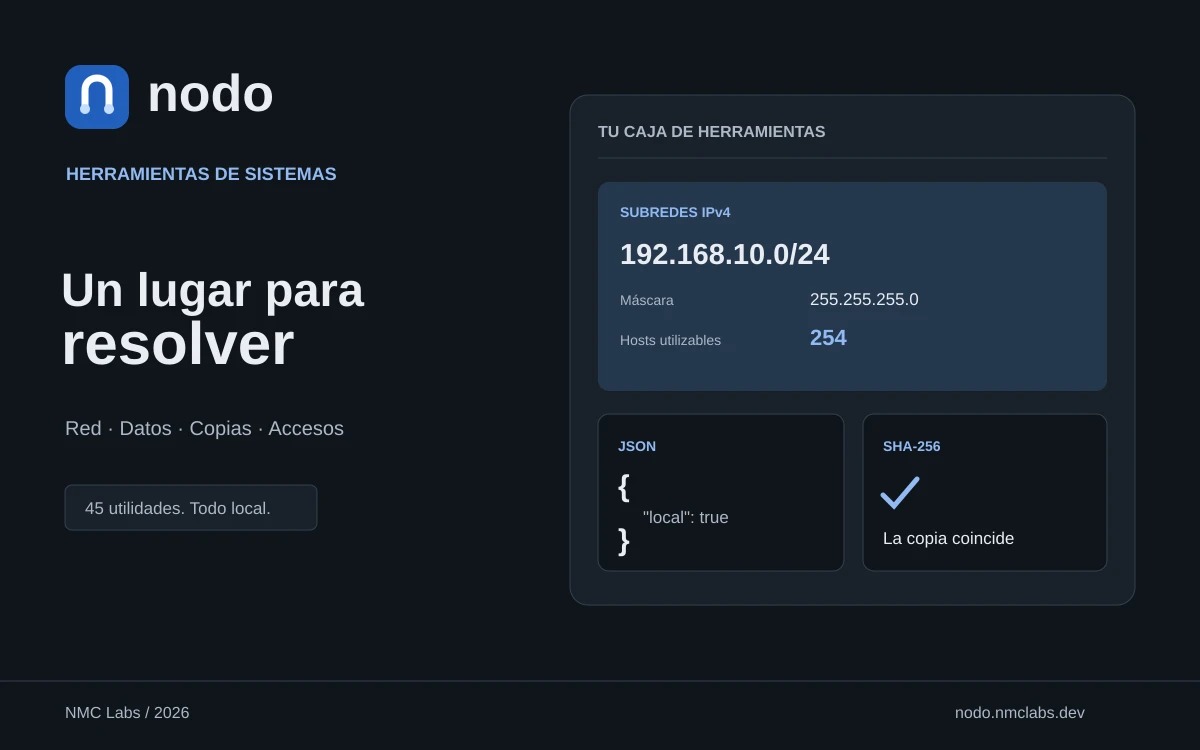
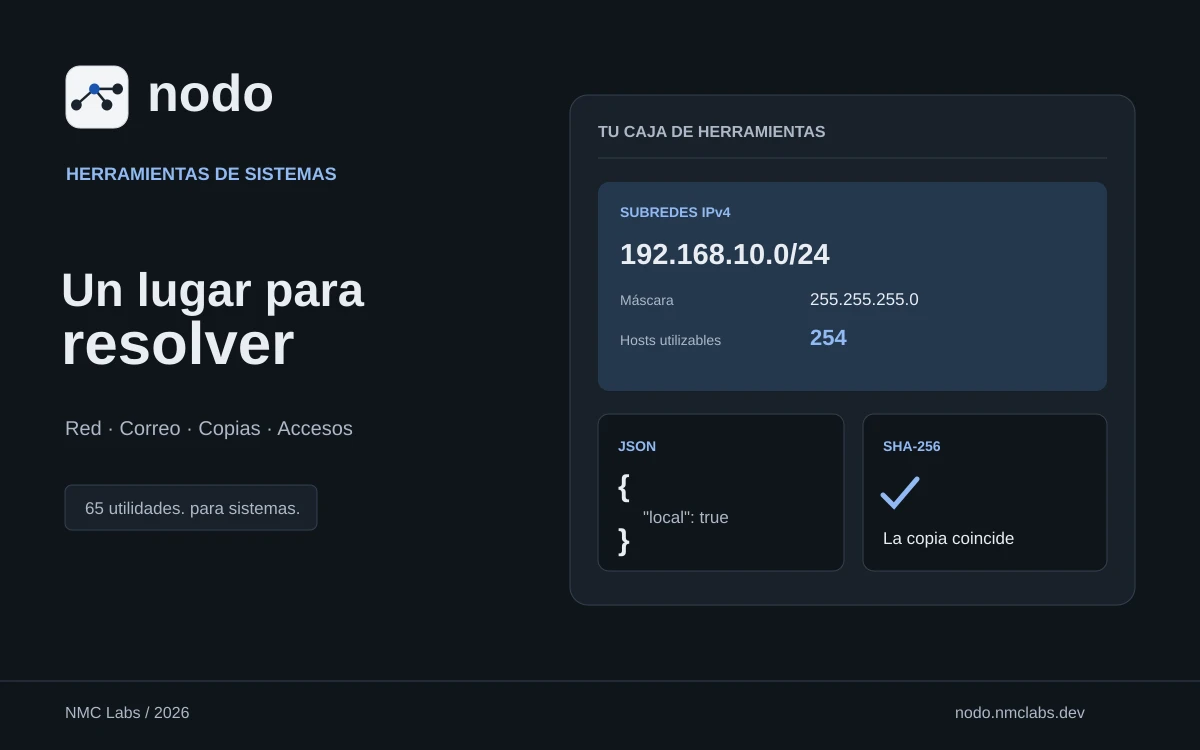
Refresh nodo identity and present DNS and email tools

Changed region(s): [[0.0308, 0.0613, 0.1233, 0.184], [0.0925, 0.552, 0.3083, 0.5827], [0.1542, 0.6747, 0.2467, 0.7053]]

diff --git a/index.html b/index.html
@@ -51,7 +51,7 @@
       </article>
       <article class="featured amano-featured" aria-labelledby="amano-titulo"><div class="featured-content"><p class="eyebrow"><time datetime="2026">2026</time> · INVENTARIO DE EMPRESA</p><h3 id="amano-titulo">Cada equipo,<br>en su sitio</h3><p>amano conecta el material de una empresa con las personas, las ubicaciones y su historial. Registra equipos con foto, personaliza la identidad de tu empresa y prueba asignaciones, préstamos, devoluciones, mantenimiento y etiquetas QR.</p><ul class="tags" aria-label="Funciones de amano"><li>Inventario</li><li>Custodia y préstamos</li><li>QR y mantenimiento</li></ul><a class="button project-cta" href="https://amano.nmclabs.dev/" target="_blank" rel="noopener noreferrer">Descubrir amano <span aria-hidden="true"><svg class="icon-arrow" viewBox="0 0 24 24" fill="none"><path d="m6 18 12-12M6 6h12v12" stroke="currentColor" stroke-width="1.7" stroke-linecap="round" stroke-linejoin="round"/></svg></span></a></div><a class="amano-art brand-art" href="https://amano.nmclabs.dev/" target="_blank" rel="noopener noreferrer" aria-label="Descubrir amano en una pestaña nueva"><picture class="project-cover"><source media="(prefers-color-scheme: dark)" srcset="proyectos/amano-brand-dark.webp?v=themes1"><img src="proyectos/amano-brand-light.webp?v=themes1" width="1200" height="750" alt="amano: equipo identificado, portátil y persona responsable" loading="lazy"></picture></a><details class="project-origin"><summary><span>La idea detrás del proyecto</span><span class="origin-toggle" aria-hidden="true">+</span></summary><div class="origin-content" aria-label="La idea de amano"><div><span class="origin-label">LA IDEA</span><p>Saber qué material tiene una empresa, dónde está y quién lo utiliza sin depender de varias hojas y mensajes.</p></div><div><span class="origin-label">EL RETO</span><p>Conectar cada equipo con su persona responsable, las entregas, las devoluciones y los cuidados pendientes.</p></div><div><span class="origin-label">LA DECISIÓN</span><p>Dar identidad propia a cada unidad y permitir probar el recorrido completo, desde el alta hasta una etiqueta QR.</p></div></div></details></article>
       <article class="featured apunto-featured" aria-labelledby="apunto-titulo"><div class="featured-content"><p class="eyebrow"><time datetime="2026">2026</time> · GESTIÓN DE TALLERES</p><h3 id="apunto-titulo">Cada reparación,<br>bajo control</h3><p>apunto conecta citas, recepción y reparación para talleres de coches y motos. El cliente revisa el presupuesto original y sus adicionales; el negocio planifica profesionales y elevadores, gestiona piezas y conserva el historial. Incluye cobro presencial, resguardo y recordatorios de mantenimiento en una demo local.</p><ul class="tags" aria-label="Funciones de apunto"><li>Presupuestos y adicionales</li><li>Clientes y planificación</li><li>Historial y mantenimiento</li></ul><a class="button project-cta" href="https://apunto.nmclabs.dev/" target="_blank" rel="noopener noreferrer">Descubrir apunto <span aria-hidden="true"><svg class="icon-arrow" viewBox="0 0 24 24" fill="none"><path d="m6 18 12-12M6 6h12v12" stroke="currentColor" stroke-width="1.7" stroke-linecap="round" stroke-linejoin="round"/></svg></span></a></div><a class="apunto-art brand-art" href="https://apunto.nmclabs.dev/" target="_blank" rel="noopener noreferrer" aria-label="Descubrir apunto en una pestaña nueva"><picture class="project-cover"><source media="(prefers-color-scheme: dark)" srcset="proyectos/apunto-brand-dark.webp?v=20261121"><img src="proyectos/apunto-brand-light.webp?v=20261121" width="1200" height="750" alt="apunto: marca, vehículo y orden de trabajo" loading="lazy"></picture></a><details class="project-origin"><summary><span>La idea detrás del proyecto</span><span class="origin-toggle" aria-hidden="true">+</span></summary><div class="origin-content" aria-label="La idea de apunto"><div><span class="origin-label">LA IDEA</span><p>Una reparación necesita coordinar el trabajo del taller y mantener informado al cliente.</p></div><div><span class="origin-label">EL RETO</span><p>Conectar diagnóstico, presupuesto y piezas sin perder el estado ni la decisión del cliente.</p></div><div><span class="origin-label">LA DECISIÓN</span><p>Una orden de principio a fin, con acceso del cliente y versiones del presupuesto que conservan su historial.</p></div></div></details></article>
-<article class="featured nodo-featured" aria-labelledby="nodo-titulo"><div class="featured-content"><p class="eyebrow"><time datetime="2026">2026</time> · HERRAMIENTAS DE SISTEMAS</p><h3 id="nodo-titulo">Un lugar para<br>resolver</h3><p>45 herramientas para el trabajo de sistemas: planificación de copias, VLSM e IPv6, comparador de configuraciones, cron, certificados, CSV y YAML, scripts y más. Catálogo con buscador y cinco áreas, con procesamiento local y sin enviar los datos introducidos.</p><ul class="tags" aria-label="Funciones de nodo"><li>45 herramientas</li><li>Redes, copias y datos</li><li>Procesamiento local</li></ul><a class="button project-cta" href="https://nodo.nmclabs.dev/" target="_blank" rel="noopener noreferrer">Descubrir nodo</a></div><a class="nodo-art brand-art" href="https://nodo.nmclabs.dev/" target="_blank" rel="noopener noreferrer" aria-label="Descubrir nodo en una pestaña nueva"><picture class="project-cover"><source media="(prefers-color-scheme: dark)" srcset="proyectos/nodo-brand-dark.webp?v=20261122-v3"><img src="proyectos/nodo-brand-light.webp?v=20261122-v3" width="1200" height="750" alt="nodo: contraseñas, QR Wi-Fi y comprobación de archivos" loading="lazy"></picture></a><details class="project-origin"><summary><span>La idea detrás del proyecto</span><span class="origin-toggle" aria-hidden="true">+</span></summary><div class="origin-content" aria-label="La idea de nodo"><div><span class="origin-label">LA IDEA</span><p>Resolver esas pequeñas tareas de sistemas que se repiten cada día, desde un solo lugar.</p></div><div><span class="origin-label">EL RETO</span><p>Generar accesos, conectar invitados y comprobar una copia sin enviar información privada a un servicio.</p></div><div><span class="origin-label">LA DECISIÓN</span><p>Un catálogo con buscador, cinco áreas de trabajo, procesos aislados y límites para mantener la interfaz disponible, sin guardar datos entre visitas.</p></div></div></details></article>
+<article class="featured nodo-featured" aria-labelledby="nodo-titulo"><div class="featured-content"><p class="eyebrow"><time datetime="2026">2026</time> · HERRAMIENTAS DE SISTEMAS</p><h3 id="nodo-titulo">Un lugar para<br>resolver</h3><p>65 herramientas para el trabajo de sistemas: DNS, correo, copias, VLSM e IPv6, cron, certificados, comparadores y scripts. Catálogo con buscador y seis áreas. Los documentos se procesan localmente; las consultas DNS públicas requieren autorización.</p><ul class="tags" aria-label="Funciones de nodo"><li>65 herramientas</li><li>Redes, copias y datos</li><li>Procesamiento local</li></ul><a class="button project-cta" href="https://nodo.nmclabs.dev/" target="_blank" rel="noopener noreferrer">Descubrir nodo</a></div><a class="nodo-art brand-art" href="https://nodo.nmclabs.dev/" target="_blank" rel="noopener noreferrer" aria-label="Descubrir nodo en una pestaña nueva"><picture class="project-cover"><source media="(prefers-color-scheme: dark)" srcset="proyectos/nodo-brand-dark.webp?v=20261122-v4"><img src="proyectos/nodo-brand-light.webp?v=20261122-v4" width="1200" height="750" alt="nodo: herramientas de sistemas, DNS, correo y archivos" loading="lazy"></picture></a><details class="project-origin"><summary><span>La idea detrás del proyecto</span><span class="origin-toggle" aria-hidden="true">+</span></summary><div class="origin-content" aria-label="La idea de nodo"><div><span class="origin-label">LA IDEA</span><p>Resolver esas pequeñas tareas de sistemas que se repiten cada día, desde un solo lugar.</p></div><div><span class="origin-label">EL RETO</span><p>Generar accesos, conectar invitados y comprobar una copia sin enviar información privada a un servicio.</p></div><div><span class="origin-label">LA DECISIÓN</span><p>Un catálogo con buscador, seis áreas y procesos aislados. Documentos locales y consultas DNS autorizadas, sin guardar datos entre visitas.</p></div></div></details></article>
       <article class="featured estancia-featured" aria-labelledby="estancia-titulo"><div class="featured-content"><p class="eyebrow"><time datetime="2026">2026</time> · HOTELES Y ALOJAMIENTOS</p><h3 id="estancia-titulo">Cada estancia,<br>bien cuidada</h3><p>estancia conecta reservas, habitaciones y tarifas de temporada para hoteles, apartamentos y casas rurales. Gestiona categorías y fotos, prueba el check-in del huésped y atiende sus incidencias. Incluye informes, web del alojamiento y una guía para preparar conexiones con Airbnb o Booking.</p><ul class="tags" aria-label="Funciones de estancia"><li>Reservas</li><li>Tipos y cupos</li><li>Tarifas e informes</li></ul><a class="button project-cta" href="https://estancia.nmclabs.dev/" target="_blank" rel="noopener noreferrer">Descubrir estancia <span aria-hidden="true"><svg class="icon-arrow" viewBox="0 0 24 24" fill="none"><path d="m6 18 12-12M6 6h12v12" stroke="currentColor" stroke-width="1.7" stroke-linecap="round" stroke-linejoin="round"/></svg></span></a></div><a class="estancia-art brand-art" href="https://estancia.nmclabs.dev/" target="_blank" rel="noopener noreferrer" aria-label="Descubrir estancia en una pestaña nueva"><picture class="project-cover"><source media="(prefers-color-scheme: dark)" srcset="proyectos/estancia-brand-dark.webp?v=themes1"><img src="proyectos/estancia-brand-light.webp?v=themes1" width="1200" height="750" alt="estancia: marca, alojamiento y calendario de reservas" loading="lazy"></picture></a><details class="project-origin"><summary><span>La idea detrás del proyecto</span><span class="origin-toggle" aria-hidden="true">+</span></summary><div class="origin-content" aria-label="La idea de estancia"><div><span class="origin-label">LA IDEA</span><p>Organizar reservas y preparar cada llegada sin perder la cercanía con los huéspedes.</p></div><div><span class="origin-label">EL RETO</span><p>Conectar la disponibilidad de cada unidad, las tareas y la experiencia de quien reserva.</p></div><div><span class="origin-label">LA DECISIÓN</span><p>Una gestión para el negocio y una web con su propia identidad, con ejemplos de hotel, apartamentos y finca rural.</p></div></div></details></article>
       <article class="featured atlas-featured" aria-labelledby="atlas-titulo">
         <div class="featured-content"><p class="eyebrow"><time datetime="2026">2026</time> · PATRIMONIO PERSONAL</p><h3 id="atlas-titulo">Un lugar para ver<br>tu patrimonio</h3><p>atlas reúne cuentas, inversiones y activos en una visión clara. Un registro mensual para entender tu evolución, a tu ritmo.</p><ul class="tags" aria-label="Funciones de Atlas"><li>Patrimonio</li><li>Evolución</li><li>Informes</li></ul><a class="button project-cta" href="https://atlas.nmclabs.dev/" target="_blank" rel="noopener noreferrer">Descubrir atlas <span aria-hidden="true"><svg class="icon-arrow" viewBox="0 0 24 24" fill="none" aria-hidden="true"><path d="m6 18 12-12M6 6h12v12" stroke="currentColor" stroke-width="1.7" stroke-linecap="round" stroke-linejoin="round"/></svg></span><span class="sr-only"> (se abre en una pestaña nueva)</span></a></div>

diff --git a/ASSET-PROVENANCE.md b/ASSET-PROVENANCE.md
@@ -11,3 +11,5 @@
 - `proyectos/readme/`: copias de las imágenes ya usadas en los README de los proyectos. El manifiesto `docs/readme-images.json` identifica su origen y huella. Solo se publican las imágenes de presentación, sin código de los repositorios privados.
 
 - nodo v3: composición original en grafito y azul con calculadora de subredes, JSON y huellas de archivos; `nmclabs-nodo/scripts/brand.mjs` permite regenerar las variantes y el favicon.
+
+- nodo v4: símbolo de conexiones original generado para el producto y portadas clara/oscura de 65 herramientas. Fuente conservada en `nmclabs-nodo/assets/brand-source.png`; composición y exportación de iconos mediante `scripts/brand.mjs`.
